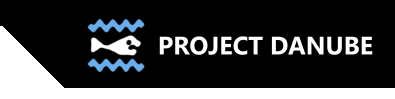
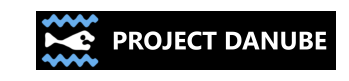
some design and functionality updates

diff --git a/webtools/src/main/webapp/style.css b/webtools/src/main/webapp/style.css
@@ -1,56 +1,65 @@
+* {
+}
+
+html {
+}
+
 body {
-	font-family: "Helvetica Neue",Helvetica,"Segoe UI",Arial,freesans,sans-serif;
-	font-size: 16px;
-	color: #333;
 	padding: 0px;
 	margin: 0px;
-	background-image: url('images/back.png');
-	background-repeat: repeat-y;
+	height: 100%;
+	font-family: "TeX Gyre Heros", "Helvetica Neue",Helvetica,"Segoe UI",Arial,freesans,sans-serif;
+	font-size: 16px;
+	color: #333;
 }
 
 #main {
-	padding-top: 50px;
-	margin-left: 80px;
-	margin-right: 30px;
+	padding-top: 100px;
+	margin-left: 40px;
+	margin-right: 40px;
 }
 
 #imgtop {
-	background-image: url('images/xdi2-top.png');
-	background-repeat: repeat-x;
-	background-attachment: fixed;
-	position: fixed;
+	z-index: 1;
+	background-color: #bbb;
 	top: 0px;
-	left: 0px;
+	position: fixed;
 	width: 100%;
-	height: 26px;
+	height: 30px;
 }
 
 #imgtopleft {
+	z-index: 1;
+	background-color: #bbb;
 	position: fixed;
 	top: 0px;
 	left: 0px;
 }
 
 #imgtopright {
+	z-index: 1;
+	background-color: #bbb;
 	position: fixed;
 	top: 0px;
 	right: 0px;
 }
 
 div.header {
+	position: fixed;
+	top: 0px;
+	left: 0px;
+	padding-top: 40px;
+	padding-left: 150px;
+	height: 41px;
+	width: 100%;
 	background-color: white;
-	padding: 5px;
-	margin-bottom: 10px;
+	margin-bottom: 30px;
+	border-bottom: 1px solid #888;
 }
 
 #appname {
 	font-size: 16pt;
 	font-weight: bold;
-	padding-left: 100px;
-}
-
-* {
-	font-size: 12pt;
 }
 
 a {
@@ -64,13 +73,23 @@ a:hover {
 }
 
 p.subheader {
+	font-size: 16pt;
 	font-weight: bold;
 }
 
 hr {
-	color: gray;
-	background-color: gray;
-	height: 3px;
+	color: #aaa;
+	background-color: #aaa;
+	height: 1px;
+	width: 100%;
+}
+
+div.line {
+	border-bottom: 1px solid #888;
+	height: 0px;
+	margin-left: -40px;
+	margin-right: -40px;
+	clear: both;
 }
 
 textarea.input {
@@ -98,7 +117,7 @@ select {
 }
 
 div.result {
-	background-color: #deccff;
+	background-color: #d6c9f1;
 	padding-left: 20px;
 	border: 3px dashed black;
 }
@@ -107,6 +126,10 @@ a.graphit {
 	display: block;
 	float: right;
 	margin: 15px;
+}
+
+a.graphit:hover {
+	background-color: white;
 }
 
 /*--------------------------------------------------
